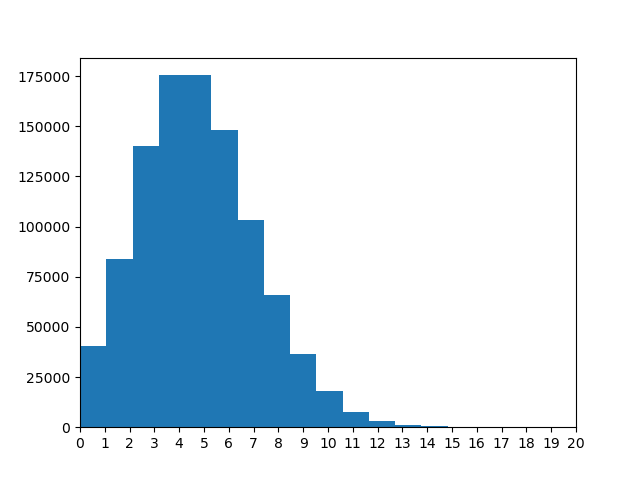
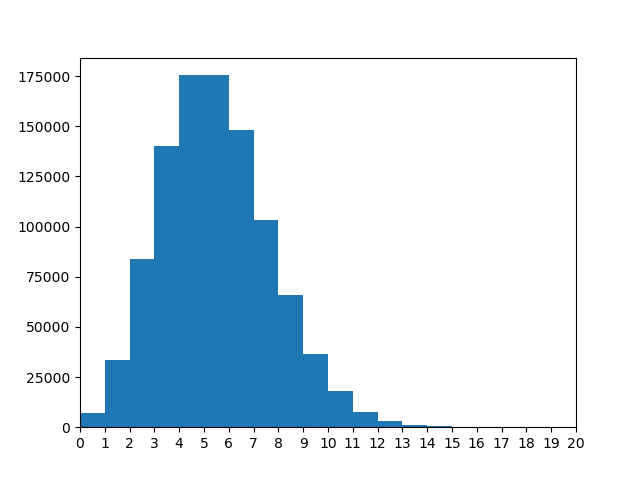
update bin size

Changed region(s): [[0.125, 0.1562, 0.2812, 0.875], [0.3125, 0.1562, 0.5312, 0.8125], [0.5312, 0.8125, 0.5938, 0.875]]

diff --git a/week1-homework/question1_2.py b/week1-homework/question1_2.py
@@ -15,7 +15,8 @@ for i in range(len(place)): # 0 to 49999
 # print (x)
 
 fig1, ax1 = plt.subplots()
-ax1.hist(x, bins = 17) # what is the best bin number?? 20 has empty bin in the middle
+ax1.hist(x, bins = np.arange(0, max(x) + 1, 1)) 
+# bins=np.arange(min(data), max(data) + binwidth, binwidth
 ax1.set_xticks(np.arange(0, 21, 1))
 plt.xlim(0, 20)
 # what to label x axis?? k? Number of incidence? Number of events?
@@ -33,7 +34,7 @@ k = np.arange(0, 21, 1)
 # probability of observing each coverage * total = frequency count ??
 y = poisson.pmf(k, mu=5)*1000000
 # plotting the graph
-ax2.hist(x, bins = 17)
+ax2.hist(x, bins = np.arange(0, max(x) + 1, 1))
 ax2.plot(k, y)
 ax2.scatter(k, y, color = 'red')
 

diff --git a/week1-homework/question1_4.py b/week1-homework/question1_4.py
@@ -15,7 +15,7 @@ for i in range(len(place)): # 0 to 49999
 # print (x)
 
 fig1, ax1 = plt.subplots()
-ax1.hist(x, bins = 17) # what is the best bin number??
+ax1.hist(x, bins = np.arange(0, max(x) + 1, 1)) # what is the best bin number??
 ax1.set_xticks(np.arange(0, 31, 1))
 plt.xlim(0, 30)
 # what to label x axis?? k? Number of incidence? Number of events?
@@ -33,7 +33,7 @@ k = np.arange(0, 31, 1)
 # probability of observing each coverage * total = frequency count ??
 y = poisson.pmf(k, mu=15)*1000000
 # plotting the graph
-ax2.hist(x, bins = 17)
+ax2.hist(x, bins = np.arange(0, max(x) + 1, 1))
 ax2.plot(k, y)
 ax2.scatter(k, y, color = 'red')
 
